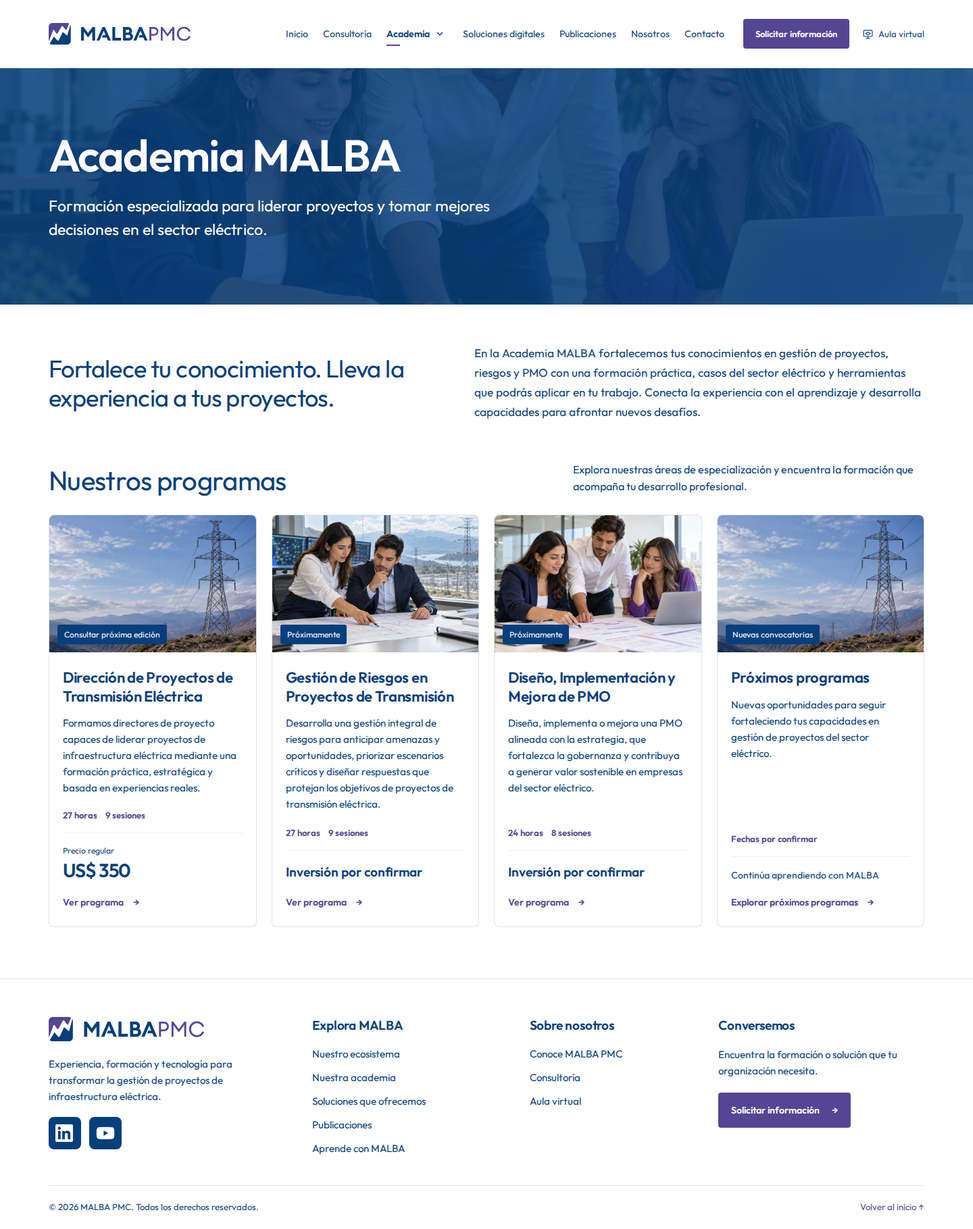
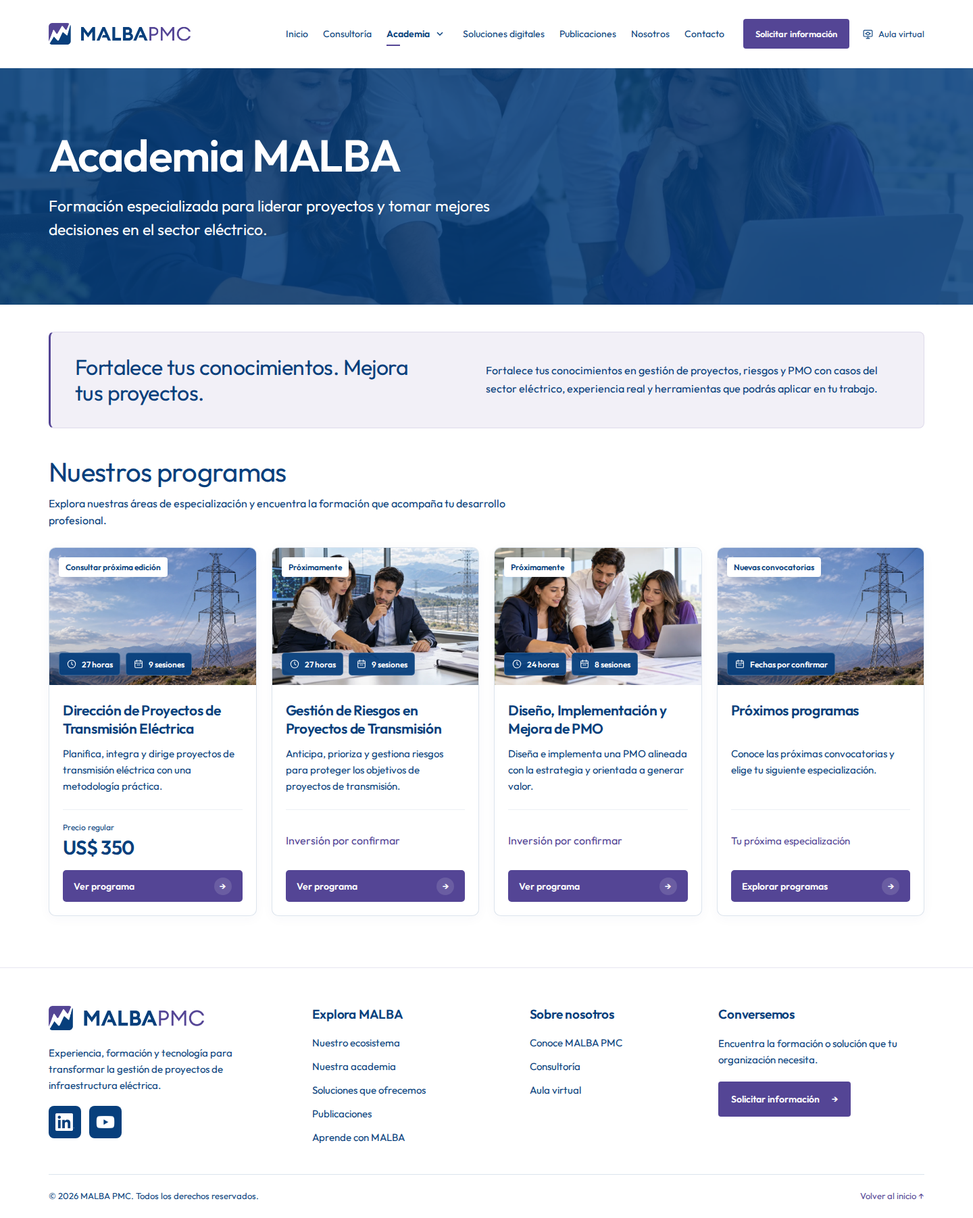
Refine Academia layout, image metadata and program buttons

diff --git a/academia/index.html b/academia/index.html
@@ -81,16 +81,16 @@
           </div>
         </nav>
       </div>
-    </header><main id="contenido"><section class="academy-hero" aria-labelledby="academy-title"><picture class="academy-hero-background"><source media="(max-width: 760px)" srcset="../assets/academia/academia-960.webp"><img src="../assets/academia/academia-1672.webp" alt="" width="1672" height="941" fetchpriority="high" decoding="async"></picture><div class="section-container"><h1 id="academy-title">Academia MALBA</h1><p>Formación especializada para liderar proyectos y tomar mejores decisiones en el sector eléctrico.</p></div></section><section class="academy-intro section-container"><h2>Fortalece tu conocimiento. Lleva la experiencia a tus proyectos.</h2><p>En la Academia MALBA fortalecemos tus conocimientos en gestión de proyectos, riesgos y PMO con una formación práctica, casos del sector eléctrico y herramientas que podrás aplicar en tu trabajo. Conecta la experiencia con el aprendizaje y desarrolla capacidades para afrontar nuevos desafíos.</p></section><section class="academy-catalog section-container" id="programas" aria-labelledby="programs-title"><div class="academy-catalog-heading"><h2 id="programs-title">Nuestros programas</h2><p>Explora nuestras áreas de especialización y encuentra la formación que acompaña tu desarrollo profesional.</p></div><div class="academy-program-grid" data-academy-track tabindex="0" aria-label="Programas de la Academia MALBA"><article class="academy-program-card">
-      <a class="academy-card-image" href="../gestion-de-proyectos-de-transmision-electrica/" tabindex="-1" aria-hidden="true"><picture class=""><source media="(max-width: 760px)" srcset="../assets/banner-transmision-960.webp"><img src="../assets/banner-transmision-1672.webp" alt="" width="1672" height="941" loading="lazy" decoding="async"></picture><span class="academy-card-status">Consultar próxima edición</span></a>
-      <div class="academy-card-content"><h3><a href="../gestion-de-proyectos-de-transmision-electrica/">Dirección de Proyectos de Transmisión Eléctrica</a></h3><p>Formamos directores de proyecto capaces de liderar proyectos de infraestructura eléctrica mediante una formación práctica, estratégica y basada en experiencias reales.</p><div class="academy-card-meta"><span>27 horas</span><span>9 sesiones</span></div><div class="academy-card-bottom"><div class="course-price" data-price-regular="350" data-price-launch="300" data-price-end="2026-08-06T00:00:00-05:00"><span data-price-label>Precio regular</span><strong data-price-amount>US$ 350</strong></div><a class="text-link" href="../gestion-de-proyectos-de-transmision-electrica/">Ver programa <span aria-hidden="true">→</span><span class="sr-only">: Dirección de Proyectos de Transmisión Eléctrica</span></a></div></div>
+    </header><main id="contenido"><section class="academy-hero" aria-labelledby="academy-title"><picture class="academy-hero-background"><source media="(max-width: 760px)" srcset="../assets/academia/academia-960.webp"><img src="../assets/academia/academia-1672.webp" alt="" width="1672" height="941" fetchpriority="high" decoding="async"></picture><div class="section-container"><h1 id="academy-title">Academia MALBA</h1><p>Formación especializada para liderar proyectos y tomar mejores decisiones en el sector eléctrico.</p></div></section><section class="academy-intro section-container"><div class="academy-intro-panel"><h2>Fortalece tus conocimientos. Mejora tus proyectos.</h2><p>Fortalece tus conocimientos en gestión de proyectos, riesgos y PMO con casos del sector eléctrico, experiencia real y herramientas que podrás aplicar en tu trabajo.</p></div></section><section class="academy-catalog section-container" id="programas" aria-labelledby="programs-title"><div class="academy-catalog-heading"><h2 id="programs-title">Nuestros programas</h2><p>Explora nuestras áreas de especialización y encuentra la formación que acompaña tu desarrollo profesional.</p></div><div class="academy-program-grid" data-academy-track tabindex="0" aria-label="Programas de la Academia MALBA"><article class="academy-program-card">
+      <div class="academy-card-media"><a class="academy-card-image" href="../gestion-de-proyectos-de-transmision-electrica/" tabindex="-1" aria-hidden="true"><picture class=""><source media="(max-width: 760px)" srcset="../assets/banner-transmision-960.webp"><img src="../assets/banner-transmision-1672.webp" alt="" width="1672" height="941" loading="lazy" decoding="async"></picture></a><span class="academy-card-status">Consultar próxima edición</span><div class="academy-image-meta"><span><svg viewBox="0 0 24 24" fill="none" stroke="currentColor" stroke-width="1.6" stroke-linecap="round" stroke-linejoin="round" aria-hidden="true"><circle cx="12" cy="12" r="8.5"/><path d="M12 7v5l3 2"/></svg>27 horas</span><span><svg viewBox="0 0 24 24" fill="none" stroke="currentColor" stroke-width="1.6" stroke-linecap="round" stroke-linejoin="round" aria-hidden="true"><rect x="4" y="5" width="16" height="15" rx="2"/><path d="M8 3v4m8-4v4M4 10h16m-11 4h2m2 0h2"/></svg>9 sesiones</span></div></div>
+      <div class="academy-card-content"><h3><a href="../gestion-de-proyectos-de-transmision-electrica/">Dirección de Proyectos de Transmisión Eléctrica</a></h3><p>Planifica, integra y dirige proyectos de transmisión eléctrica con una metodología práctica.</p><div class="academy-card-bottom"><div class="academy-card-price"><div class="course-price" data-price-regular="350" data-price-launch="300" data-price-end="2026-08-06T00:00:00-05:00"><span data-price-label>Precio regular</span><strong data-price-amount>US$ 350</strong></div></div><a class="button button-purple academy-card-button" href="../gestion-de-proyectos-de-transmision-electrica/">Ver programa <span class="academy-button-arrow" aria-hidden="true">→</span><span class="sr-only">: Dirección de Proyectos de Transmisión Eléctrica</span></a></div></div>
     </article><article class="academy-program-card">
-      <a class="academy-card-image" href="../gestion-de-riesgos-de-proyectos-de-transmision-electrica/" tabindex="-1" aria-hidden="true"><picture class=""><source media="(max-width: 760px)" srcset="../assets/programs/riesgos-960.webp"><img src="../assets/programs/riesgos-960.webp" alt="" width="1672" height="941" loading="lazy" decoding="async"></picture><span class="academy-card-status">Próximamente</span></a>
-      <div class="academy-card-content"><h3><a href="../gestion-de-riesgos-de-proyectos-de-transmision-electrica/">Gestión de Riesgos en Proyectos de Transmisión</a></h3><p>Desarrolla una gestión integral de riesgos para anticipar amenazas y oportunidades, priorizar escenarios críticos y diseñar respuestas que protejan los objetivos de proyectos de transmisión eléctrica.</p><div class="academy-card-meta"><span>27 horas</span><span>9 sesiones</span></div><div class="academy-card-bottom"><span class="course-price-unconfirmed">Inversión por confirmar</span><a class="text-link" href="../gestion-de-riesgos-de-proyectos-de-transmision-electrica/">Ver programa <span aria-hidden="true">→</span><span class="sr-only">: Gestión de Riesgos en Proyectos de Transmisión</span></a></div></div>
+      <div class="academy-card-media"><a class="academy-card-image" href="../gestion-de-riesgos-de-proyectos-de-transmision-electrica/" tabindex="-1" aria-hidden="true"><picture class=""><source media="(max-width: 760px)" srcset="../assets/programs/riesgos-960.webp"><img src="../assets/programs/riesgos-960.webp" alt="" width="1672" height="941" loading="lazy" decoding="async"></picture></a><span class="academy-card-status">Próximamente</span><div class="academy-image-meta"><span><svg viewBox="0 0 24 24" fill="none" stroke="currentColor" stroke-width="1.6" stroke-linecap="round" stroke-linejoin="round" aria-hidden="true"><circle cx="12" cy="12" r="8.5"/><path d="M12 7v5l3 2"/></svg>27 horas</span><span><svg viewBox="0 0 24 24" fill="none" stroke="currentColor" stroke-width="1.6" stroke-linecap="round" stroke-linejoin="round" aria-hidden="true"><rect x="4" y="5" width="16" height="15" rx="2"/><path d="M8 3v4m8-4v4M4 10h16m-11 4h2m2 0h2"/></svg>9 sesiones</span></div></div>
+      <div class="academy-card-content"><h3><a href="../gestion-de-riesgos-de-proyectos-de-transmision-electrica/">Gestión de Riesgos en Proyectos de Transmisión</a></h3><p>Anticipa, prioriza y gestiona riesgos para proteger los objetivos de proyectos de transmisión.</p><div class="academy-card-bottom"><div class="academy-card-price"><span class="course-price-unconfirmed">Inversión por confirmar</span></div><a class="button button-purple academy-card-button" href="../gestion-de-riesgos-de-proyectos-de-transmision-electrica/">Ver programa <span class="academy-button-arrow" aria-hidden="true">→</span><span class="sr-only">: Gestión de Riesgos en Proyectos de Transmisión</span></a></div></div>
     </article><article class="academy-program-card">
-      <a class="academy-card-image" href="../diseno-implementacion-y-mejora-de-pmo/" tabindex="-1" aria-hidden="true"><picture class=""><source media="(max-width: 760px)" srcset="../assets/programs/pmo-960.webp"><img src="../assets/programs/pmo-960.webp" alt="" width="1672" height="941" loading="lazy" decoding="async"></picture><span class="academy-card-status">Próximamente</span></a>
-      <div class="academy-card-content"><h3><a href="../diseno-implementacion-y-mejora-de-pmo/">Diseño, Implementación y Mejora de PMO</a></h3><p>Diseña, implementa o mejora una PMO alineada con la estrategia, que fortalezca la gobernanza y contribuya a generar valor sostenible en empresas del sector eléctrico.</p><div class="academy-card-meta"><span>24 horas</span><span>8 sesiones</span></div><div class="academy-card-bottom"><span class="course-price-unconfirmed">Inversión por confirmar</span><a class="text-link" href="../diseno-implementacion-y-mejora-de-pmo/">Ver programa <span aria-hidden="true">→</span><span class="sr-only">: Diseño, Implementación y Mejora de PMO</span></a></div></div>
-    </article><article class="academy-program-card academy-upcoming-card"><a class="academy-card-image" href="proximos/" tabindex="-1" aria-hidden="true"><picture class=""><source media="(max-width: 760px)" srcset="../assets/banner-transmision-960.webp"><img src="../assets/banner-transmision-1672.webp" alt="" width="1672" height="941" loading="lazy" decoding="async"></picture><span class="academy-card-status">Nuevas convocatorias</span></a><div class="academy-card-content"><h3><a href="proximos/">Próximos programas</a></h3><p>Nuevas oportunidades para seguir fortaleciendo tus capacidades en gestión de proyectos del sector eléctrico.</p><div class="academy-card-meta"><span>Fechas por confirmar</span></div><div class="academy-card-bottom"><span>Continúa aprendiendo con MALBA</span><a class="text-link" href="proximos/">Explorar próximos programas <span aria-hidden="true">→</span></a></div></div></article></div><div class="academy-navigation"><p>Explora los programas <span aria-hidden="true">→</span></p><div><button type="button" data-program-step="-1" aria-label="Programas anteriores">←</button><button type="button" data-program-step="1" aria-label="Programas siguientes">→</button></div></div></section></main><footer class="site-footer" aria-label="Pie de página">
+      <div class="academy-card-media"><a class="academy-card-image" href="../diseno-implementacion-y-mejora-de-pmo/" tabindex="-1" aria-hidden="true"><picture class=""><source media="(max-width: 760px)" srcset="../assets/programs/pmo-960.webp"><img src="../assets/programs/pmo-960.webp" alt="" width="1672" height="941" loading="lazy" decoding="async"></picture></a><span class="academy-card-status">Próximamente</span><div class="academy-image-meta"><span><svg viewBox="0 0 24 24" fill="none" stroke="currentColor" stroke-width="1.6" stroke-linecap="round" stroke-linejoin="round" aria-hidden="true"><circle cx="12" cy="12" r="8.5"/><path d="M12 7v5l3 2"/></svg>24 horas</span><span><svg viewBox="0 0 24 24" fill="none" stroke="currentColor" stroke-width="1.6" stroke-linecap="round" stroke-linejoin="round" aria-hidden="true"><rect x="4" y="5" width="16" height="15" rx="2"/><path d="M8 3v4m8-4v4M4 10h16m-11 4h2m2 0h2"/></svg>8 sesiones</span></div></div>
+      <div class="academy-card-content"><h3><a href="../diseno-implementacion-y-mejora-de-pmo/">Diseño, Implementación y Mejora de PMO</a></h3><p>Diseña e implementa una PMO alineada con la estrategia y orientada a generar valor.</p><div class="academy-card-bottom"><div class="academy-card-price"><span class="course-price-unconfirmed">Inversión por confirmar</span></div><a class="button button-purple academy-card-button" href="../diseno-implementacion-y-mejora-de-pmo/">Ver programa <span class="academy-button-arrow" aria-hidden="true">→</span><span class="sr-only">: Diseño, Implementación y Mejora de PMO</span></a></div></div>
+    </article><article class="academy-program-card academy-upcoming-card"><div class="academy-card-media"><a class="academy-card-image" href="proximos/" tabindex="-1" aria-hidden="true"><picture class=""><source media="(max-width: 760px)" srcset="../assets/banner-transmision-960.webp"><img src="../assets/banner-transmision-1672.webp" alt="" width="1672" height="941" loading="lazy" decoding="async"></picture></a><span class="academy-card-status">Nuevas convocatorias</span><div class="academy-image-meta"><span><svg viewBox="0 0 24 24" fill="none" stroke="currentColor" stroke-width="1.6" stroke-linecap="round" stroke-linejoin="round" aria-hidden="true"><rect x="4" y="5" width="16" height="15" rx="2"/><path d="M8 3v4m8-4v4M4 10h16m-11 4h2m2 0h2"/></svg>Fechas por confirmar</span></div></div><div class="academy-card-content"><h3><a href="proximos/">Próximos programas</a></h3><p>Conoce las próximas convocatorias y elige tu siguiente especialización.</p><div class="academy-card-bottom"><div class="academy-card-price"><span>Tu próxima especialización</span></div><a class="button button-purple academy-card-button" href="proximos/">Explorar programas <span class="academy-button-arrow" aria-hidden="true">→</span></a></div></div></article></div><div class="academy-navigation"><p>Explora los programas <span aria-hidden="true">→</span></p><div><button type="button" data-program-step="-1" aria-label="Programas anteriores">←</button><button type="button" data-program-step="1" aria-label="Programas siguientes">→</button></div></div></section></main><footer class="site-footer" aria-label="Pie de página">
       <div class="section-container">
         <div class="footer-top">
           <div class="footer-brand">

diff --git a/academia.css b/academia.css
@@ -16,30 +16,39 @@
 .academy-hero > .section-container { width: 100%; }
 .academy-hero h1 { font-size: clamp(38px,4.8vw,66px); line-height: 1.06; letter-spacing: -1.6px; font-weight: 600; margin: 0 0 24px; max-width: 780px; }
 .academy-hero p { font-size: clamp(18px,1.9vw,23px); line-height: 1.5; margin: 0; max-width: 700px; }
-.academy-intro { display: grid; grid-template-columns: .95fr 1.15fr; gap: 80px; padding-top: 58px; padding-bottom: 58px; align-items: center; }
-.academy-intro h2 { margin: 0; max-width: 540px; font-size: clamp(26px,2.5vw,36px); letter-spacing: -.6px; line-height: 1.2; font-weight: 400; }
-.academy-intro p { margin: 0; font-size: 17px; line-height: 1.7; }
+.academy-intro { padding-top: 40px; padding-bottom: 42px; }
+.academy-intro-panel { display: grid; grid-template-columns: 1fr 1.1fr; gap: 52px; align-items: center; padding: 32px 36px; border: 1px solid rgba(84,69,149,.13); border-left: 3px solid var(--purple); border-radius: 8px; background: var(--purple-soft); }
+.academy-intro h2 { margin: 0; max-width: 540px; font-size: clamp(25px,2.3vw,32px); letter-spacing: -.6px; line-height: 1.2; font-weight: 400; }
+.academy-intro p { margin: 0; font-size: 16px; line-height: 1.7; }
 .academy-catalog { padding-bottom: 76px; }
-.academy-catalog-heading { display: flex; align-items: flex-end; justify-content: space-between; gap: 32px; margin-bottom: 28px; }
+.academy-catalog-heading { margin-bottom: 26px; }
 .academy-catalog-heading h2 { margin: 0; font-size: clamp(29px,3vw,40px); line-height: 1.12; letter-spacing: -.7px; font-weight: 400; }
-.academy-catalog-heading p { margin: 0; max-width: 520px; font-size: 16px; line-height: 1.6; }
+.academy-catalog-heading p { margin: 12px 0 0; max-width: 680px; font-size: 16px; line-height: 1.6; }
 .academy-program-grid { display: grid; grid-template-columns: repeat(4,minmax(0,1fr)); gap: 22px; }
-.academy-program-card { min-width: 0; border: 1px solid rgba(7,63,124,.14); border-radius: 8px; overflow: hidden; background: var(--white); display: flex; flex-direction: column; transition: border-color .2s ease, box-shadow .2s ease; }
+.academy-program-card { min-width: 0; border: 1px solid rgba(7,63,124,.14); border-radius: 10px; overflow: hidden; background: var(--white); display: flex; flex-direction: column; box-shadow: 0 4px 18px rgba(7,63,124,.035); transition: border-color .2s ease, box-shadow .2s ease; }
 .academy-program-card:hover, .academy-program-card:focus-within { border-color: var(--purple); box-shadow: 0 8px 24px rgba(84,69,149,.09); }
-.academy-card-image { position: relative; display: block; aspect-ratio: 1.5; overflow: hidden; flex-shrink: 0; }
+.academy-card-media { position: relative; aspect-ratio: 1.5; overflow: hidden; flex-shrink: 0; }
+.academy-card-image { display: block; width: 100%; height: 100%; }
 .academy-card-image picture, .academy-card-image img { display: block; width: 100%; height: 100%; object-fit: cover; }
 .academy-card-image img { transition: transform .3s ease; }
 .academy-program-card:hover .academy-card-image img { transform: scale(1.025); }
-.academy-card-status { position: absolute; bottom: 12px; left: 12px; right: 12px; width: fit-content; background: var(--blue); color: var(--white); border-radius: 3px; padding: 7px 10px; font-size: 12px; line-height: 1.3; }
+.academy-card-status { position: absolute; top: 14px; left: 14px; max-width: calc(100% - 28px); background: var(--white); color: var(--blue); border-radius: 4px; padding: 7px 10px; font-size: 12px; font-weight: 600; line-height: 1.3; box-shadow: 0 2px 8px rgba(7,63,124,.12); pointer-events: none; }
+.academy-image-meta { position: absolute; bottom: 14px; left: 14px; right: 14px; display: flex; gap: 8px; flex-wrap: wrap; pointer-events: none; }
+.academy-image-meta > span { display: inline-flex; align-items: center; gap: 7px; background: rgba(7,63,124,.95); color: var(--white); padding: 8px 10px; border: 1px solid rgba(255,255,255,.2); border-radius: 5px; font-size: 12px; line-height: 1.3; font-weight: 600; }
+.academy-image-meta svg { width: 16px; height: 16px; flex-shrink: 0; }
 .academy-card-content { padding: 24px 20px 20px; flex: 1; display: flex; flex-direction: column; }
-.academy-card-content h3 { margin: 0 0 14px; font-size: 22px; line-height: 1.24; font-weight: 600; letter-spacing: -.3px; }
+.academy-card-content h3 { margin: 0 0 12px; min-height: 54px; font-size: 21px; line-height: 1.28; font-weight: 600; letter-spacing: -.3px; }
 .academy-card-content h3 a { display: inline-block; }
-.academy-card-content > p { font-size: 15px; line-height: 1.6; margin: 0 0 20px; }
-.academy-card-meta { display: flex; flex-wrap: wrap; gap: 7px 12px; margin-top: auto; padding-bottom: 18px; font-size: 13px; font-weight: 600; color: var(--purple); }
-.academy-card-bottom { border-top: 1px solid var(--blue-soft); padding-top: 18px; display: flex; flex-direction: column; align-items: flex-start; gap: 15px; font-size: 14px; }
-.academy-card-bottom .text-link { position: relative; font-size: 14px; min-height: 32px; }
+.academy-card-content > p { font-size: 15px; line-height: 1.6; margin: 0 0 22px; }
+.academy-card-bottom { margin-top: auto; border-top: 1px solid var(--blue-soft); padding-top: 18px; display: flex; flex-direction: column; gap: 17px; font-size: 14px; }
+.academy-card-price { min-height: 54px; display: flex; align-items: center; }
+.academy-card-price > span { font-size: 15px; color: var(--purple); }
 .academy-card-bottom .course-price span { font-size: 12px; }
-.academy-card-bottom .course-price strong { font-size: 28px; }
+.academy-card-bottom .course-price strong { font-size: 29px; }
+.academy-card-bottom .course-price-unconfirmed { color: var(--purple); font-size: 16px; font-weight: 400; }
+.academy-card-button { position: relative; min-height: 47px; width: 100%; padding: 0 15px; justify-content: space-between; gap: 10px; font-size: 14px; border-radius: 5px; }
+.academy-button-arrow { width: 26px; height: 26px; display: grid; place-items: center; border-radius: 50%; background: rgba(255,255,255,.13); transition: transform .2s ease; }
+.academy-card-button:hover .academy-button-arrow { transform: translateX(2px); }
 .academy-next-actions { margin-top: 32px; display: flex; align-items: center; gap: 30px; flex-wrap: wrap; }
 .academy-navigation { display: none; }
 /* Program pages: shared components replace the former Elementor styles. */
@@ -135,8 +144,8 @@
   .academy-menu a { font-size: 14px; padding: 11px 14px; }
   .academy-menu-toggle { width: 40px; height: 40px; }
   .academy-program-grid { grid-template-columns: repeat(2,minmax(0,1fr)); }
-  .academy-card-image { aspect-ratio: 1.8; }
-  .academy-intro { gap: 40px; }
+  .academy-card-media { aspect-ratio: 1.8; }
+  .academy-intro-panel { gap: 32px; }
   .course-hero-layout { grid-template-columns: minmax(0,1fr) 300px; gap: 32px; }
   .course-hero-copy h1 { font-size: 42px; }
   .course-enrollment { padding: 26px 22px; }
@@ -147,8 +156,9 @@
   .academy-hero { min-height: 250px; padding: 48px 0; }
   .academy-hero h1 { font-size: 40px; letter-spacing: -.9px; margin-bottom: 20px; }
   .academy-hero p { font-size: 18px; line-height: 1.55; }
-  .academy-intro { grid-template-columns: 1fr; gap: 18px; padding-top: 36px; padding-bottom: 36px; }
-  .academy-intro h2 { font-size: 28px; }
+  .academy-intro { padding-top: 28px; padding-bottom: 32px; }
+  .academy-intro-panel { grid-template-columns: 1fr; gap: 16px; padding: 24px 22px; }
+  .academy-intro h2 { font-size: 26px; }
   .academy-intro p { font-size: 15px; line-height: 1.65; }
   .academy-catalog { padding-bottom: 44px; }
   .academy-catalog-heading { display: block; margin-bottom: 22px; }
@@ -158,9 +168,8 @@
   .academy-program-grid::-webkit-scrollbar { display: none; }
   .academy-program-card { scroll-snap-align: start; }
   .academy-card-content { padding: 20px 18px; }
-  .academy-card-content h3 { font-size: 22px; }
-  .academy-card-content > p { font-size: 14px; line-height: 1.55; display: -webkit-box; -webkit-line-clamp: 3; -webkit-box-orient: vertical; overflow: hidden; }
-  .academy-card-meta { padding-bottom: 15px; }
+  .academy-card-content h3 { font-size: 21px; min-height: 54px; }
+  .academy-card-content > p { font-size: 14px; line-height: 1.6; }
   .academy-card-bottom { padding-top: 15px; }
   .academy-navigation { display: flex; align-items: center; justify-content: space-between; gap: 16px; margin-top: 14px; }
   .academy-navigation p { margin: 0; font-size: 13px; }
@@ -215,5 +224,5 @@
   .course-final p { font-size: 15px; }
 }
 @media (prefers-reduced-motion: reduce) {
-  .academy-card-image img, .academy-program-card, .academy-menu-toggle svg { transition: none; }
+  .academy-card-image img, .academy-program-card, .academy-menu-toggle svg, .academy-button-arrow { transition: none; }
 }

diff --git a/academia/proximos/index.html b/academia/proximos/index.html
@@ -81,12 +81,12 @@
           </div>
         </nav>
       </div>
-    </header><main id="contenido"><section class="academy-hero" aria-labelledby="academy-title"><picture class="academy-hero-background"><source media="(max-width: 760px)" srcset="../../assets/banner-transmision-960.webp"><img src="../../assets/banner-transmision-1672.webp" alt="" width="1672" height="941" fetchpriority="high" decoding="async"></picture><div class="section-container"><h1 id="academy-title">Próximos programas</h1><p>Nuevas oportunidades para seguir fortaleciendo tus capacidades en gestión de proyectos del sector eléctrico.</p></div></section><section class="academy-intro section-container"><h2>Prepárate para tu próxima especialización</h2><p>Consulta los programas con fechas por confirmar y conversa con nuestro equipo para conocer las próximas convocatorias.</p></section><section class="academy-catalog section-container"><div class="academy-program-grid" data-academy-track tabindex="0" aria-label="Programas de la Academia MALBA"><article class="academy-program-card">
-      <a class="academy-card-image" href="../../gestion-de-riesgos-de-proyectos-de-transmision-electrica/" tabindex="-1" aria-hidden="true"><picture class=""><source media="(max-width: 760px)" srcset="../../assets/programs/riesgos-960.webp"><img src="../../assets/programs/riesgos-960.webp" alt="" width="1672" height="941" loading="lazy" decoding="async"></picture><span class="academy-card-status">Próximamente</span></a>
-      <div class="academy-card-content"><h3><a href="../../gestion-de-riesgos-de-proyectos-de-transmision-electrica/">Gestión de Riesgos en Proyectos de Transmisión</a></h3><p>Desarrolla una gestión integral de riesgos para anticipar amenazas y oportunidades, priorizar escenarios críticos y diseñar respuestas que protejan los objetivos de proyectos de transmisión eléctrica.</p><div class="academy-card-meta"><span>27 horas</span><span>9 sesiones</span></div><div class="academy-card-bottom"><span class="course-price-unconfirmed">Inversión por confirmar</span><a class="text-link" href="../../gestion-de-riesgos-de-proyectos-de-transmision-electrica/">Ver programa <span aria-hidden="true">→</span><span class="sr-only">: Gestión de Riesgos en Proyectos de Transmisión</span></a></div></div>
+    </header><main id="contenido"><section class="academy-hero" aria-labelledby="academy-title"><picture class="academy-hero-background"><source media="(max-width: 760px)" srcset="../../assets/banner-transmision-960.webp"><img src="../../assets/banner-transmision-1672.webp" alt="" width="1672" height="941" fetchpriority="high" decoding="async"></picture><div class="section-container"><h1 id="academy-title">Próximos programas</h1><p>Nuevas oportunidades para seguir fortaleciendo tus capacidades en gestión de proyectos del sector eléctrico.</p></div></section><section class="academy-intro section-container"><div class="academy-intro-panel"><h2>Prepárate para tu próxima especialización</h2><p>Consulta los programas con fechas por confirmar y conversa con nuestro equipo para conocer las próximas convocatorias.</p></div></section><section class="academy-catalog section-container"><div class="academy-program-grid" data-academy-track tabindex="0" aria-label="Programas de la Academia MALBA"><article class="academy-program-card">
+      <div class="academy-card-media"><a class="academy-card-image" href="../../gestion-de-riesgos-de-proyectos-de-transmision-electrica/" tabindex="-1" aria-hidden="true"><picture class=""><source media="(max-width: 760px)" srcset="../../assets/programs/riesgos-960.webp"><img src="../../assets/programs/riesgos-960.webp" alt="" width="1672" height="941" loading="lazy" decoding="async"></picture></a><span class="academy-card-status">Próximamente</span><div class="academy-image-meta"><span><svg viewBox="0 0 24 24" fill="none" stroke="currentColor" stroke-width="1.6" stroke-linecap="round" stroke-linejoin="round" aria-hidden="true"><circle cx="12" cy="12" r="8.5"/><path d="M12 7v5l3 2"/></svg>27 horas</span><span><svg viewBox="0 0 24 24" fill="none" stroke="currentColor" stroke-width="1.6" stroke-linecap="round" stroke-linejoin="round" aria-hidden="true"><rect x="4" y="5" width="16" height="15" rx="2"/><path d="M8 3v4m8-4v4M4 10h16m-11 4h2m2 0h2"/></svg>9 sesiones</span></div></div>
+      <div class="academy-card-content"><h3><a href="../../gestion-de-riesgos-de-proyectos-de-transmision-electrica/">Gestión de Riesgos en Proyectos de Transmisión</a></h3><p>Anticipa, prioriza y gestiona riesgos para proteger los objetivos de proyectos de transmisión.</p><div class="academy-card-bottom"><div class="academy-card-price"><span class="course-price-unconfirmed">Inversión por confirmar</span></div><a class="button button-purple academy-card-button" href="../../gestion-de-riesgos-de-proyectos-de-transmision-electrica/">Ver programa <span class="academy-button-arrow" aria-hidden="true">→</span><span class="sr-only">: Gestión de Riesgos en Proyectos de Transmisión</span></a></div></div>
     </article><article class="academy-program-card">
-      <a class="academy-card-image" href="../../diseno-implementacion-y-mejora-de-pmo/" tabindex="-1" aria-hidden="true"><picture class=""><source media="(max-width: 760px)" srcset="../../assets/programs/pmo-960.webp"><img src="../../assets/programs/pmo-960.webp" alt="" width="1672" height="941" loading="lazy" decoding="async"></picture><span class="academy-card-status">Próximamente</span></a>
-      <div class="academy-card-content"><h3><a href="../../diseno-implementacion-y-mejora-de-pmo/">Diseño, Implementación y Mejora de PMO</a></h3><p>Diseña, implementa o mejora una PMO alineada con la estrategia, que fortalezca la gobernanza y contribuya a generar valor sostenible en empresas del sector eléctrico.</p><div class="academy-card-meta"><span>24 horas</span><span>8 sesiones</span></div><div class="academy-card-bottom"><span class="course-price-unconfirmed">Inversión por confirmar</span><a class="text-link" href="../../diseno-implementacion-y-mejora-de-pmo/">Ver programa <span aria-hidden="true">→</span><span class="sr-only">: Diseño, Implementación y Mejora de PMO</span></a></div></div>
+      <div class="academy-card-media"><a class="academy-card-image" href="../../diseno-implementacion-y-mejora-de-pmo/" tabindex="-1" aria-hidden="true"><picture class=""><source media="(max-width: 760px)" srcset="../../assets/programs/pmo-960.webp"><img src="../../assets/programs/pmo-960.webp" alt="" width="1672" height="941" loading="lazy" decoding="async"></picture></a><span class="academy-card-status">Próximamente</span><div class="academy-image-meta"><span><svg viewBox="0 0 24 24" fill="none" stroke="currentColor" stroke-width="1.6" stroke-linecap="round" stroke-linejoin="round" aria-hidden="true"><circle cx="12" cy="12" r="8.5"/><path d="M12 7v5l3 2"/></svg>24 horas</span><span><svg viewBox="0 0 24 24" fill="none" stroke="currentColor" stroke-width="1.6" stroke-linecap="round" stroke-linejoin="round" aria-hidden="true"><rect x="4" y="5" width="16" height="15" rx="2"/><path d="M8 3v4m8-4v4M4 10h16m-11 4h2m2 0h2"/></svg>8 sesiones</span></div></div>
+      <div class="academy-card-content"><h3><a href="../../diseno-implementacion-y-mejora-de-pmo/">Diseño, Implementación y Mejora de PMO</a></h3><p>Diseña e implementa una PMO alineada con la estrategia y orientada a generar valor.</p><div class="academy-card-bottom"><div class="academy-card-price"><span class="course-price-unconfirmed">Inversión por confirmar</span></div><a class="button button-purple academy-card-button" href="../../diseno-implementacion-y-mejora-de-pmo/">Ver programa <span class="academy-button-arrow" aria-hidden="true">→</span><span class="sr-only">: Diseño, Implementación y Mejora de PMO</span></a></div></div>
     </article></div><div class="academy-navigation"><p>Explora los programas <span aria-hidden="true">→</span></p><div><button type="button" data-program-step="-1" aria-label="Programas anteriores">←</button><button type="button" data-program-step="1" aria-label="Programas siguientes">→</button></div></div><div class="academy-next-actions"><a class="button button-purple" href="https://wa.me/51932563293?text=Hola%2C%20deseo%20informaci%C3%B3n%20sobre%20las%20pr%C3%B3ximas%20convocatorias%20de%20la%20Academia%20MALBA." target="_blank" rel="noopener noreferrer">Consultar convocatorias <span aria-hidden="true">↗</span></a><a class="text-link" href="../">Ver toda la academia <span aria-hidden="true">→</span></a></div></section></main><footer class="site-footer" aria-label="Pie de página">
       <div class="section-container">
         <div class="footer-top">

diff --git a/academia.js b/academia.js
@@ -43,8 +43,8 @@ document.querySelectorAll('[data-academy-track]').forEach(track => {
   const buttons = [...controls.querySelectorAll('button')];
   const update = () => {
     const limit = track.scrollWidth - track.clientWidth;
-    buttons[0].disabled = track.scrollLeft < 2;
-    buttons[1].disabled = track.scrollLeft >= limit - 2;
+    buttons[0].disabled = track.scrollLeft <= 3;
+    buttons[1].disabled = track.scrollLeft >= limit - 3;
   };
   const move = direction => {
     const first = track.firstElementChild;

diff --git a/scripts/build_academia.py b/scripts/build_academia.py
@@ -68,11 +68,17 @@ def action(program, secondary=False):
         return '<button class="button course-disabled" type="button" disabled>' + ('Inscripciones próximamente' if status == 'proximamente' else 'Inscripciones cerradas') + '</button>'
     return f'<a class="button button-purple" href="{esc(safe_url(program["whatsappUrl"]))}" target="_blank" rel="noopener noreferrer">Consultar próxima edición <span aria-hidden="true">↗</span></a>'
 
+def image_badges(items):
+    clock = '<circle cx="12" cy="12" r="8.5"/><path d="M12 7v5l3 2"/>'
+    calendar = '<rect x="4" y="5" width="16" height="15" rx="2"/><path d="M8 3v4m8-4v4M4 10h16m-11 4h2m2 0h2"/>'
+    return '<div class="academy-image-meta">' + ''.join(f'<span><svg viewBox="0 0 24 24" fill="none" stroke="currentColor" stroke-width="1.6" stroke-linecap="round" stroke-linejoin="round" aria-hidden="true">{clock if label.endswith('horas') else calendar}</svg>{esc(label)}</span>' for i,label in enumerate(items)) + '</div>'
+
 def card(program, prefix):
     state = {'proximamente': 'Próximamente', 'consultar': 'Consultar próxima edición', 'abierto': 'Inscripciones abiertas', 'agotado': 'Inscripciones cerradas'}[program['status']]
+    href = esc(local(program['slug']+'/', prefix))
     return f'''<article class="academy-program-card">
-      <a class="academy-card-image" href="{esc(local(program['slug']+'/', prefix))}" tabindex="-1" aria-hidden="true">{picture(program['image'], program['imageSmall'], '', prefix)}<span class="academy-card-status">{esc(state)}</span></a>
-      <div class="academy-card-content"><h3><a href="{esc(local(program['slug']+'/', prefix))}">{esc(program['title'])}</a></h3><p>{esc(program['description'])}</p><div class="academy-card-meta"><span>{esc(program['hours'])} horas</span><span>{esc(program['sessions'])} sesiones</span></div><div class="academy-card-bottom">{price(program)}<a class="text-link" href="{esc(local(program['slug']+'/', prefix))}">Ver programa <span aria-hidden="true">→</span><span class="sr-only">: {esc(program['title'])}</span></a></div></div>
+      <div class="academy-card-media"><a class="academy-card-image" href="{href}" tabindex="-1" aria-hidden="true">{picture(program['image'], program['imageSmall'], '', prefix)}</a><span class="academy-card-status">{esc(state)}</span>{image_badges([str(program['hours'])+' horas',str(program['sessions'])+' sesiones'])}</div>
+      <div class="academy-card-content"><h3><a href="{href}">{esc(program['title'])}</a></h3><p>{esc(program.get('cardDescription',program['description']))}</p><div class="academy-card-bottom"><div class="academy-card-price">{price(program)}</div><a class="button button-purple academy-card-button" href="{href}">Ver programa <span class="academy-button-arrow" aria-hidden="true">→</span><span class="sr-only">: {esc(program['title'])}</span></a></div></div>
     </article>'''
 
 def shared(template, prefix, active, programs):
@@ -119,10 +125,10 @@ def catalog_controls():
 def academy(data):
     a, ps, prefix = data['academy'], data['programs'], '../'
     forthcoming = data['upcoming']
-    main = hero(a,prefix) + f'<section class="academy-intro section-container"><h2>{esc(a["introTitle"])}</h2><p>{esc(a["introText"])}</p></section>'
+    main = hero(a,prefix) + f'<section class="academy-intro section-container"><div class="academy-intro-panel"><h2>{esc(a["introTitle"])}</h2><p>{esc(a["introText"])}</p></div></section>'
     main += f'<section class="academy-catalog section-container" id="programas" aria-labelledby="programs-title"><div class="academy-catalog-heading"><h2 id="programs-title">{esc(a["programsTitle"])}</h2><p>{esc(a["programsText"])}</p></div><div class="academy-program-grid" data-academy-track tabindex="0" aria-label="Programas de la Academia MALBA">'
     main += ''.join(card(p,prefix) for p in ps)
-    main += f'''<article class="academy-program-card academy-upcoming-card"><a class="academy-card-image" href="proximos/" tabindex="-1" aria-hidden="true">{picture(forthcoming['image'],forthcoming['imageSmall'],'',prefix)}<span class="academy-card-status">Nuevas convocatorias</span></a><div class="academy-card-content"><h3><a href="proximos/">{esc(forthcoming['title'])}</a></h3><p>{esc(forthcoming['description'])}</p><div class="academy-card-meta"><span>Fechas por confirmar</span></div><div class="academy-card-bottom"><span>Continúa aprendiendo con MALBA</span><a class="text-link" href="proximos/">Explorar próximos programas <span aria-hidden="true">→</span></a></div></div></article></div>{catalog_controls()}</section>'''
+    main += f'''<article class="academy-program-card academy-upcoming-card"><div class="academy-card-media"><a class="academy-card-image" href="proximos/" tabindex="-1" aria-hidden="true">{picture(forthcoming['image'],forthcoming['imageSmall'],'',prefix)}</a><span class="academy-card-status">Nuevas convocatorias</span>{image_badges(['Fechas por confirmar'])}</div><div class="academy-card-content"><h3><a href="proximos/">{esc(forthcoming['title'])}</a></h3><p>{esc(forthcoming.get('cardDescription',forthcoming['description']))}</p><div class="academy-card-bottom"><div class="academy-card-price"><span>Tu próxima especialización</span></div><a class="button button-purple academy-card-button" href="proximos/">Explorar programas <span class="academy-button-arrow" aria-hidden="true">→</span></a></div></div></article></div>{catalog_controls()}</section>'''
     schema = {'@context':'https://schema.org','@graph':[{'@type':'CollectionPage','name':a['title'],'url':ORIGIN+'academia/','description':a['subtitle']}, {'@type':'ItemList','itemListElement':[{'@type':'ListItem','position':i,'item':course_schema(p)} for i,p in enumerate(ps,1)]}, breadcrumbs(a['title'],'academia/')]}
     return document(a['title'],a['subtitle'],'academia/',prefix,main,ps,'academy',schema,a['image'],a['imageAlt'])
 
@@ -167,7 +173,7 @@ def program_page(p, programs):
 
 def upcoming(data):
     u,ps,prefix=data['upcoming'],data['programs'],'../../'
-    main=hero(u,prefix)+f'<section class="academy-intro section-container"><h2>{esc(u["introTitle"])}</h2><p>{esc(u["introText"])}</p></section><section class="academy-catalog section-container"><div class="academy-program-grid" data-academy-track tabindex="0" aria-label="Programas de la Academia MALBA">'+''.join(card(p,prefix) for p in ps if p['status']=='proximamente')+'</div>'+catalog_controls()
+    main=hero(u,prefix)+f'<section class="academy-intro section-container"><div class="academy-intro-panel"><h2>{esc(u["introTitle"])}</h2><p>{esc(u["introText"])}</p></div></section><section class="academy-catalog section-container"><div class="academy-program-grid" data-academy-track tabindex="0" aria-label="Programas de la Academia MALBA">'+''.join(card(p,prefix) for p in ps if p['status']=='proximamente')+'</div>'+catalog_controls()
     main+=f'<div class="academy-next-actions"><a class="button button-purple" href="{esc(safe_url(u["contactUrl"]))}" target="_blank" rel="noopener noreferrer">Consultar convocatorias <span aria-hidden="true">↗</span></a><a class="text-link" href="../">Ver toda la academia <span aria-hidden="true">→</span></a></div></section>'
     schema={'@context':'https://schema.org','@graph':[{'@type':'CollectionPage','name':u['title'],'url':ORIGIN+'academia/proximos/','description':u['description']},breadcrumbs(u['title'],'academia/proximos/')]}
     return document(u['title'],u['description'],'academia/proximos/',prefix,main,ps,'upcoming',schema,u['image'],u['title'])

diff --git a/docs/validation.md b/docs/validation.md
@@ -78,3 +78,9 @@ Verificados 1920, 1440, 1024, 768, 390 y 320 px: sin desbordamiento, tarjetas bl
 - Cinco pruebas de publicación y configuración: edición de contenidos/fechas/precios, publicación de promociones vigentes, vencimiento de promociones, bloqueo de compras pausadas y escape de contenido/URLs inseguras.
 - No se probó una compra real ni se enviaron consultas de WhatsApp. El formulario de brochure del plugin WordPress no estaba incluido; los botones abren los PDFs originales.
 - El contenido está separado del diseño. CMS/dashboard, autenticación, API y sincronización con WooCommerce quedan para una implementación posterior.
+
+### Refinamiento visual de Academia
+
+Presentación agrupada, resúmenes específicos para las tarjetas, estado sobre la imagen y etiquetas independientes de duración/sesiones. CTA morado completo con flecha y alineación de precios/botones. La vista de próximas convocatorias reutiliza estos componentes.
+
+Verificadas Academia y Próximos programas en 1920, 1440, 1024, 768, 390 y 320 px: metadatos dentro de las imágenes, sin desbordamiento de página, recursos locales cargados, botones alineados en escritorio, flechas del catálogo móvil y navegación al programa funcionales. Cinco pruebas de contenido/configuración pasan. Se ajustó la tolerancia del control al inicio del scroll para considerar el padding del carrusel. Capturas actualizadas.

diff --git a/README.md b/README.md
@@ -131,3 +131,7 @@ Los datos editables están en `content/academia.json`; se publican con `py scrip
 Las nuevas páginas incluyen título, descripción, canonical, Open Graph, datos estructurados de cursos y breadcrumbs, y sitemap actualizado. Mantienen `noindex, follow` durante esta revisión. Outfit se sirve localmente. No se cambió la capa `.54` del banner del home.
 
 Validación del contenido: `py -m unittest discover -s tests -v`. En navegador se comprobaron las cinco páginas a 1920, 1440, 1024, 768, 390 y 320 px, navegación home → Academia → programa, submenu, temarios, popup de información, precios vencidos y enlaces locales. Brochures y WhatsApp apuntan a los destinos originales; no se enviaron mensajes ni se hicieron compras.
+
+### Composición del catálogo de Academia
+
+La presentación se agrupa en un panel de la paleta MALBA y el texto del catálogo queda junto a su título. Cada tarjeta sitúa el estado en la parte superior de la imagen y la duración/sesiones en etiquetas independientes al pie de la foto. Los resúmenes se editan mediante `cardDescription`; el texto completo del programa se conserva. Precios y botones se alinean, con un CTA morado de ancho completo. Próximos programas sigue la misma composición.

diff --git a/content/README.md b/content/README.md
@@ -14,7 +14,7 @@ La regeneración también sincroniza el menú y el footer del home; conserva sus
 | --- | --- |
 | Portada de Academia | `academy.title`, `subtitle`, `image`, `imageSmall`, `imageAlt` |
 | Presentación y catálogo | `introTitle`, `introText`, `programsTitle`, `programsText`; orden de `programs` |
-| Cada programa | `title`, `category`, `description`, imágenes de tarjetas y `imageWide` para el fondo del banner, `edition`, `hours`, `sessions`, `modality`, `schedule` |
+| Cada programa | `title`, `category`, `description`, `cardDescription` para el resumen del catálogo, imágenes de tarjetas y `imageWide` para el fondo del banner, `edition`, `hours`, `sessions`, `modality`, `schedule` |
 | Fechas | `startDate` en `AAAA-MM-DD`; `startLabel` para fechas sin confirmar |
 | Precios | `pricing.regular`, `launch`, `currency`, `launchEndsAt`, `note`; `null` cuando no hay importe confirmado |
 | Inscripciones | `status`, `registrationNote`, `checkoutUrl`, `whatsappUrl`, `brochureUrl` |
